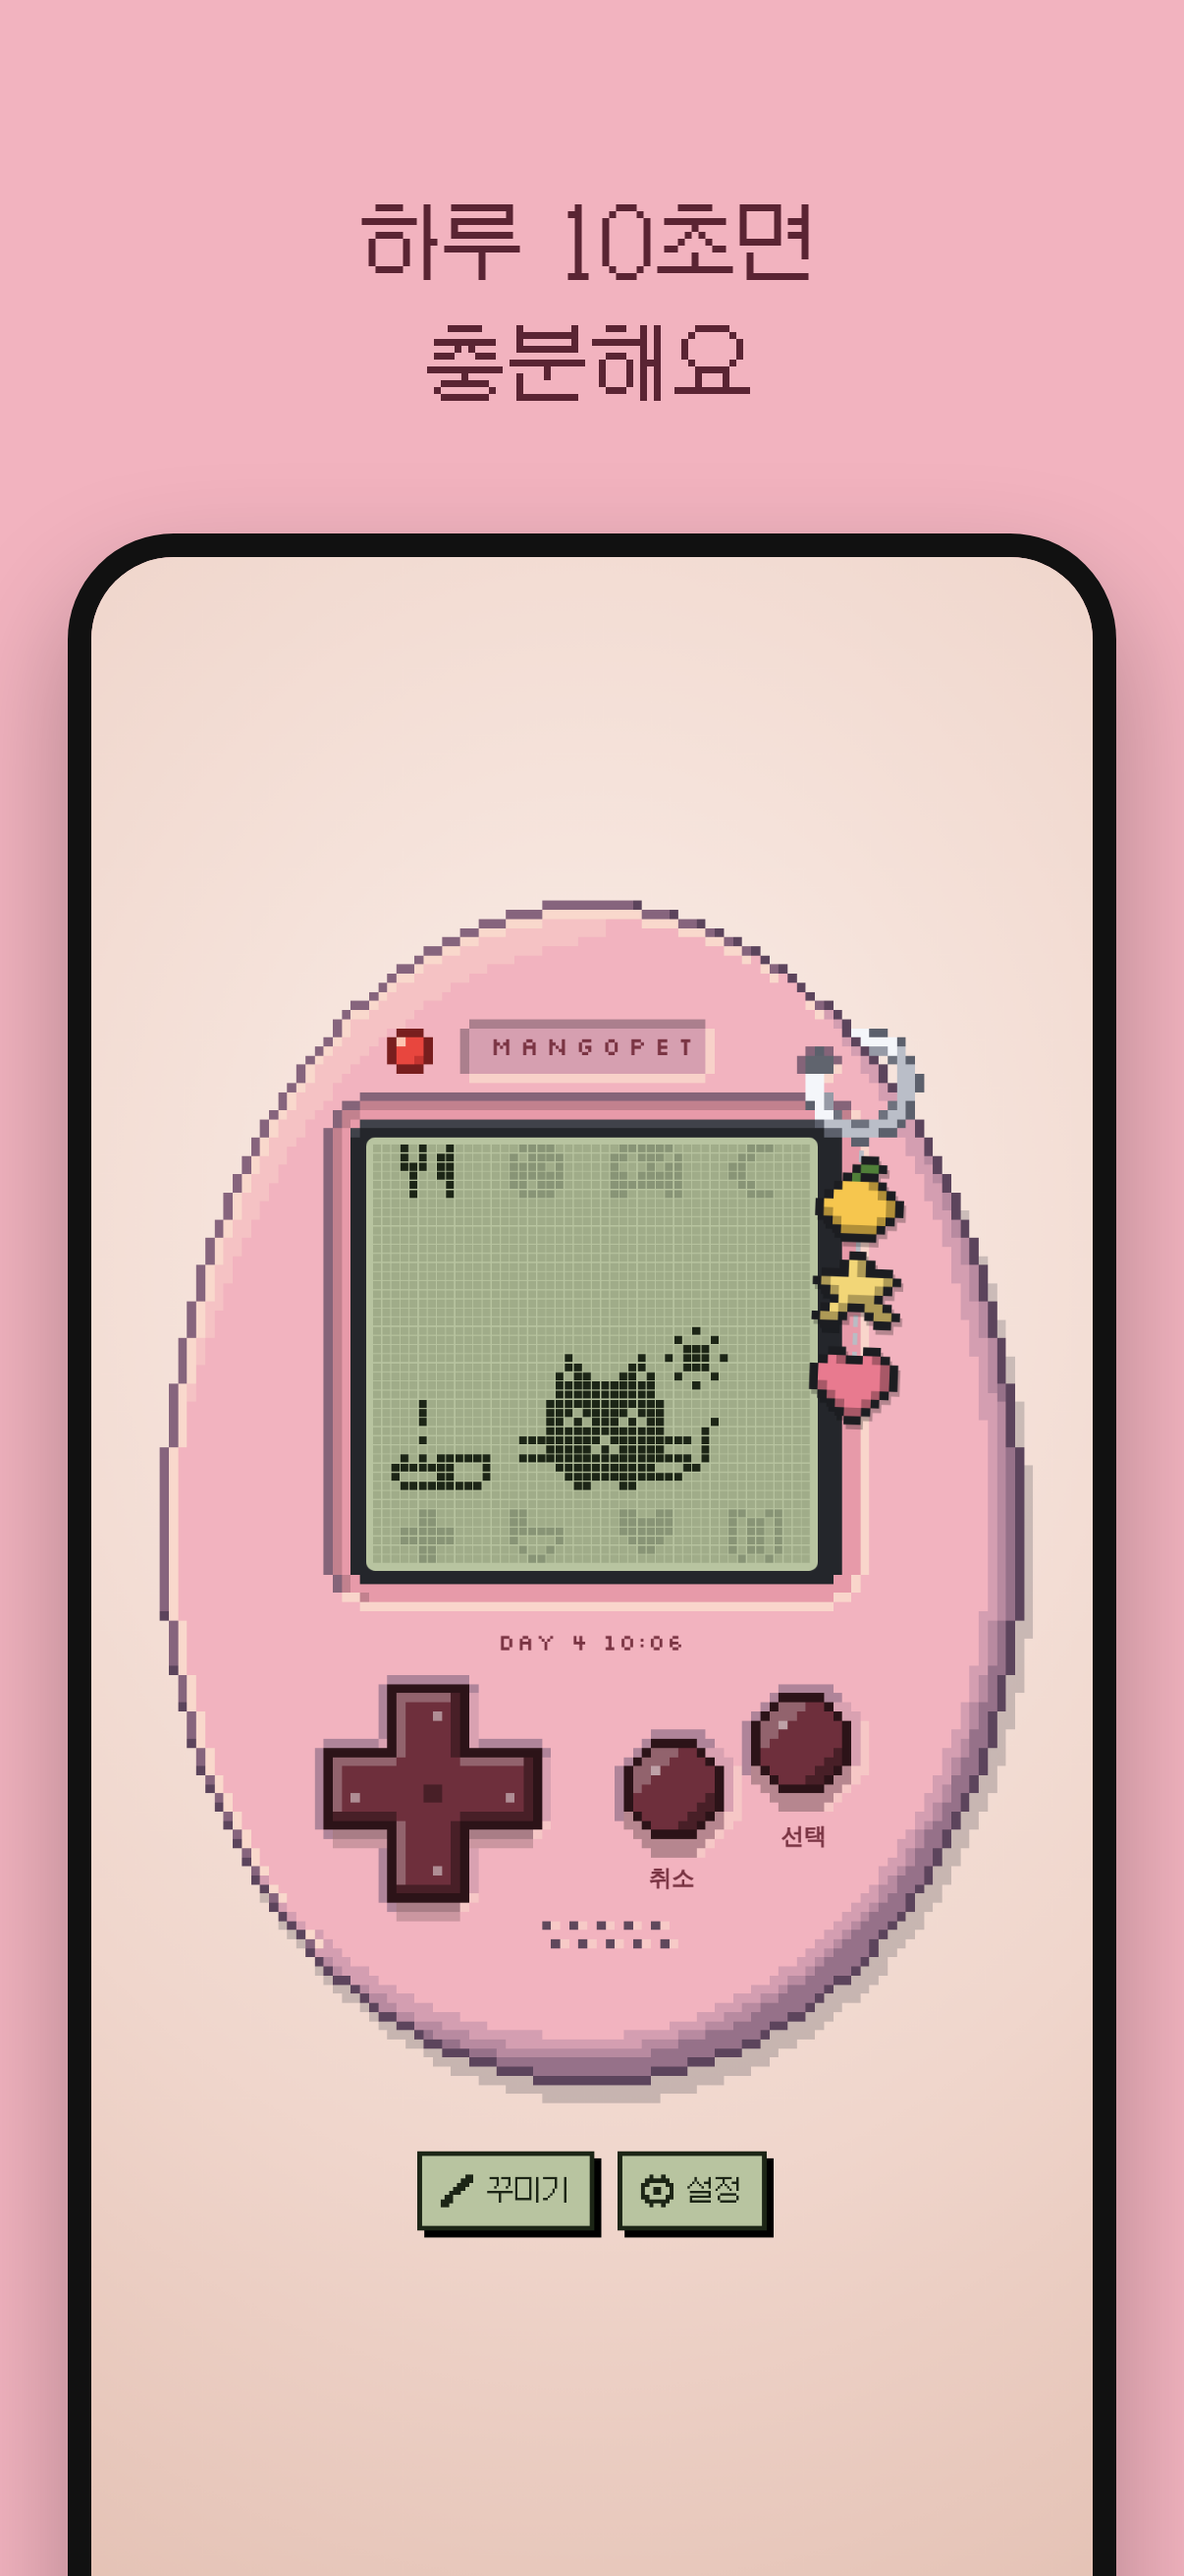
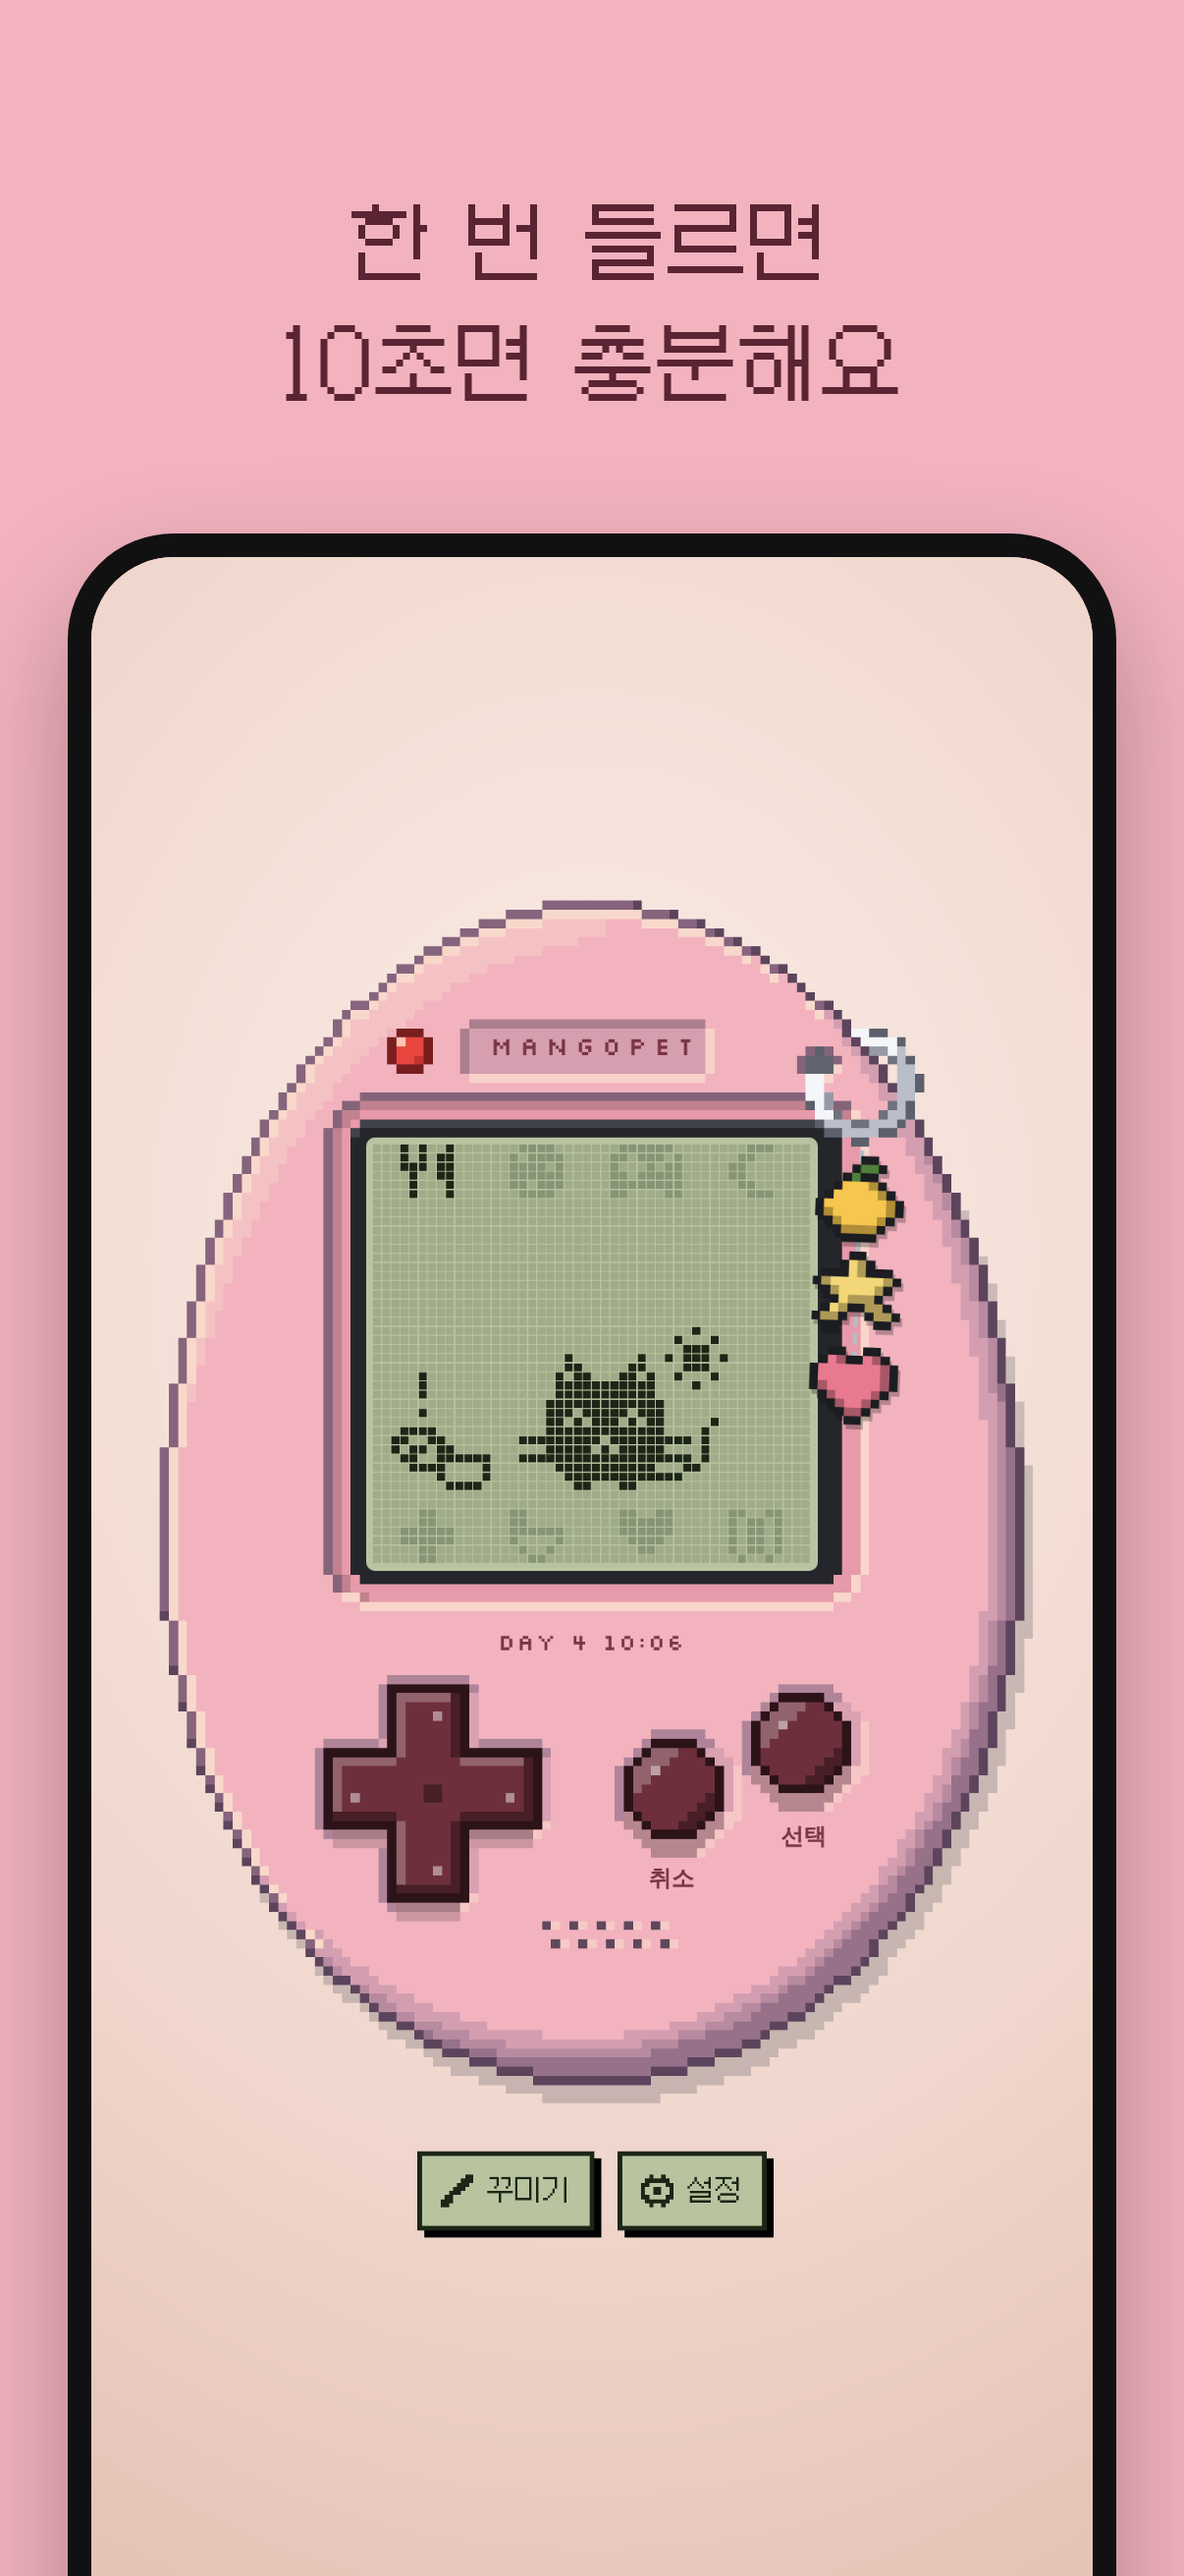
1.0.2 준비: 별점 묻기, 스토어 글·스크린샷 새로
- 첫 7일 졸업 때 폰 기본 별점 창을 한 번(@capacitor-community/in-app-review, askReview, g.reviewAsked)
- 버전 1.0.2 · 빌드 4 (iOS, Android versionName), 설정 › 정보 1.0.2
- 스토어 스크린샷: 2장 '한 번 들르면 10초면 충분해요', 6장을 알림 대신 깜짝 시간(무지개)
- assets/store/listing-1.0.2.md: 이름·부제·키워드(픽셀)·설명(다마고치·옛 숫자 뺌, 깜짝 시간·버릇)·새로운 기능

Claude-Session: https://claude.ai/code/session_016RoijJanbM29VgmJcCj5nJ

Changed region(s): [[0.2454, 0.0618, 0.767, 0.1545], [0.3068, 0.5252, 0.3988, 0.587]]

diff --git a/tools/store.js b/tools/store.js
@@ -1,5 +1,5 @@
 // Store screenshots: play six scenes in the phone build, then frame each under a headline.
-//   python3 tools/build.py && node tools/store.js   → assets/store/<size>/1-egg.png … 6-notif.png (6.3" 1206 × 2622 and 6.9" 1320 × 2868)
+//   python3 tools/build.py && node tools/store.js   → assets/store/<size>/1-egg.png … 6-surprise.png (6.3" 1206 × 2622 and 6.9" 1320 × 2868)
 // Scenes are set up through a hook injected into a temporary copy of docs/index.html.
 const {chromium}=require('playwright');const fs=require('fs'),path=require('path');
 const SIZES=[{dir:'6.3in-1206x2622',w:402,h:874},{dir:'6.9in-1320x2868',w:440,h:956}];
@@ -15,14 +15,15 @@ const GROW=`const D=window.__dp,g=D.g;g.speed=0;D.newPet('relaxed');D.advance(6)
 const SCENES=[
   {name:'1-egg',head:'알을 톡톡,\n내 펫을 깨워요',bg:'#f6c64e',ink:'#463414',save:{skin:'classic',bg:'beige',intro:'case'},wait:900,
     js:`const D=window.__dp;D.g.speed=0;document.querySelector('[data-intronext=life]').click();document.querySelector('[data-intronext=egg]').click();D.g.cracks=2;`},
-  {name:'2-meal',head:'하루 10초면\n충분해요',bg:'#f2b3bf',ink:'#5a2433',save:{skin:'berry',bg:'peach'},wait:500,js:GROW+`g.species='sun_cat';g.hunger=1;D.act('meal');`},
+  {name:'2-meal',head:'한 번 들르면\n10초면 충분해요',bg:'#f2b3bf',ink:'#5a2433',save:{skin:'berry',bg:'peach'},wait:500,js:GROW+`g.species='sun_cat';g.hunger=1;D.act('meal');`},
   {name:'3-dex',head:'24종 + 반짝이,\n도감을 채워요',bg:'#a6dccb',ink:'#1f4a3d',save:{skin:'mint',bg:'mint'},wait:700,
     js:GROW+`['sun_cat','moon_bear','chub_frog','wild_rabbit','sun_penguin','moon_chick','chub_cat','sun_bear','moon_rabbit','chub_penguin','sun_frog'].forEach((k,i)=>g.dex[k]={seen:true,grad:i%3?1:0,best:i%3?(i%2?2:1):0});D.openZoom('dex','chub_frog');`},
   {name:'4-deco',head:'키링 30종,\n나만의 기기로',bg:'#cfe0ea',ink:'#24384a',save:{skin:'banana',bg:'sky'},wait:700,js:GROW+`g.species='moon_bear';D.openZoom('charm');`},
   {name:'5-run',head:'미니게임 5종,\n기록에 도전!',bg:'#dcd5ea',ink:'#352a50',save:{skin:'classic',bg:'lilac'},wait:120,
     js:GROW+`g.species='wild_cat';const G=D.GAMES.run.start({id:'run',wins:0,until:0});G.dist=4*128;G.t0-=9000;G.next=1e15;G.obs.push({x:30,w:3,h:3,y:28});G.jumpAt=performance.now()-300;D.ui.game=G;`},
-  {name:'6-notif',head:'필요할 때만\n살짝 알려 줘요',bg:'#3a3d44',ink:'#f3eee6',save:{skin:'smoke',bg:'night'},wait:500,banner:true,
-    js:GROW+`g.species='chub_penguin';g.hunger=0;g.poops=1;D.banner('🍙 배고파 · 💩 똥 쌌어');`},
+  // the day's surprise: a rainbow arching over the pet (the scene's clock is set back so the arch is already up)
+  {name:'6-surprise',head:'하루 한 번,\n깜짝 시간!',bg:'#f6c64e',ink:'#463414',save:{skin:'mint',bg:'sky'},wait:150,
+    js:GROW+`g.species='sun_cat';g.found=null;D.ui.doing=null;D.ui.petX=18;D.ui.surprise={k:'rainbow',start:performance.now()-2900,given:false};`},
 ];
 (async()=>{const b=await chromium.launch();let bad=0;
  for(const S of SCENES){

diff --git a/src/prototype.html b/src/prototype.html
@@ -1099,7 +1099,7 @@ function sfx(k){buzz(k);if(!g.sound||!SFX[k])return;try{AC=AC||new (window.Audio
   let t=AC.currentTime+.01;for(const [f,ms] of SFX[k]){if(f){const o=AC.createOscillator(),v=AC.createGain();o.type='square';o.frequency.value=f;
     v.gain.setValueAtTime(.045,t);v.gain.setValueAtTime(.045,t+ms/1000-.01);v.gain.linearRampToValueAtTime(0,t+ms/1000);o.connect(v).connect(AC.destination);o.start(t);o.stop(t+ms/1000)}t+=ms/1000}}catch(e){}}
 function onEvent(e){
-  if(e.type==='graduate'){sfx('grad');const who=g.name||(SP[g.species]?SP[g.species].ko:'');talk(`🎓 ${who}${josa(who,'이','가')} 졸업했어요!`,`도감에 ${e.full?'★★':'★'}로 남았어요 · 앨범에도 한 장`,true)}if(e.type==='charm')sfx('charm');
+  if(e.type==='graduate'){sfx('grad');const who=g.name||(SP[g.species]?SP[g.species].ko:'');talk(`🎓 ${who}${josa(who,'이','가')} 졸업했어요!`,`도감에 ${e.full?'★★':'★'}로 남았어요 · 앨범에도 한 장`,true);if(e.full)askReview()}if(e.type==='charm')sfx('charm');
   // growing up has its own page below (and adult growth may be held in quiet hours), so its notice is skipped here.
   // Big news waits to be read; while catching up after the app was closed, passing needs are left to the screen itself
   // hatched while the app was closed: named now, and said once together (not the notice and the name separately)
@@ -3122,6 +3122,10 @@ const Haptics=hasPlugin('Haptics')&&window.capacitorHaptics?window.capacitorHapt
 const Prefs=hasPlugin('Preferences')&&window.capacitorPreferences?window.capacitorPreferences.Preferences:null;
 const AppPl=hasPlugin('App')&&window.capacitorApp?window.capacitorApp.App:null;
 // the web view lost its save but the app kept a copy: put it back and start again from it
+// the phone's own star-rating sheet, asked once: after the first full seven-day graduation, the happiest moment to ask.
+// The system decides whether it really shows (at most three times a year), so nothing here repeats it
+function askReview(){if(g.reviewAsked||!hasPlugin('InAppReview')||!window.capacitorInAppReview)return;g.reviewAsked=true;save();
+  setTimeout(()=>window.capacitorInAppReview.InAppReview.requestReview().catch(()=>{}),6000)}
 // coming back from the rescue page (설정 › 기록 › 예전 기록 찾기) with an old test build's save
 const RESCUE_URL='https://aiden-mklee.github.io/mangopet/rescue.html';
 if(/^#restore=/.test(location.hash)){const code=decodeURIComponent(location.hash.slice(9));history.replaceState(null,'',location.pathname+location.search);

diff --git a/app/ios/App/CapApp-SPM/Package.swift b/app/ios/App/CapApp-SPM/Package.swift
@@ -12,6 +12,7 @@ let package = Package(
     ],
     dependencies: [
         .package(url: "https://github.com/ionic-team/capacitor-swift-pm.git", exact: "8.5.3"),
+        .package(name: "CapacitorCommunityInAppReview", path: "../../../../node_modules/@capacitor-community/in-app-review"),
         .package(name: "CapacitorApp", path: "../../../../node_modules/@capacitor/app"),
         .package(name: "CapacitorFilesystem", path: "../../../../node_modules/@capacitor/filesystem"),
         .package(name: "CapacitorHaptics", path: "../../../../node_modules/@capacitor/haptics"),
@@ -26,6 +27,7 @@ let package = Package(
             dependencies: [
                 .product(name: "Capacitor", package: "capacitor-swift-pm"),
                 .product(name: "Cordova", package: "capacitor-swift-pm"),
+                .product(name: "CapacitorCommunityInAppReview", package: "CapacitorCommunityInAppReview"),
                 .product(name: "CapacitorApp", package: "CapacitorApp"),
                 .product(name: "CapacitorFilesystem", package: "CapacitorFilesystem"),
                 .product(name: "CapacitorHaptics", package: "CapacitorHaptics"),

diff --git a/app/www/in-app-review.js b/app/www/in-app-review.js
@@ -1,0 +1,24 @@
+var capacitorInAppReview = (function (exports, core) {
+    'use strict';
+
+    const InAppReview = core.registerPlugin('InAppReview', {
+        web: () => Promise.resolve().then(function () { return web; }).then((m) => new m.InAppReviewWeb()),
+    });
+
+    class InAppReviewWeb extends core.WebPlugin {
+        async requestReview() {
+            throw this.unimplemented('Not implemented on web.');
+        }
+    }
+
+    var web = /*#__PURE__*/Object.freeze({
+        __proto__: null,
+        InAppReviewWeb: InAppReviewWeb
+    });
+
+    exports.InAppReview = InAppReview;
+
+    return exports;
+
+})({}, capacitorExports);
+//# sourceMappingURL=plugin.js.map

diff --git a/docs/in-app-review.js b/docs/in-app-review.js
@@ -1,0 +1,24 @@
+var capacitorInAppReview = (function (exports, core) {
+    'use strict';
+
+    const InAppReview = core.registerPlugin('InAppReview', {
+        web: () => Promise.resolve().then(function () { return web; }).then((m) => new m.InAppReviewWeb()),
+    });
+
+    class InAppReviewWeb extends core.WebPlugin {
+        async requestReview() {
+            throw this.unimplemented('Not implemented on web.');
+        }
+    }
+
+    var web = /*#__PURE__*/Object.freeze({
+        __proto__: null,
+        InAppReviewWeb: InAppReviewWeb
+    });
+
+    exports.InAppReview = InAppReview;
+
+    return exports;
+
+})({}, capacitorExports);
+//# sourceMappingURL=plugin.js.map

diff --git a/docs/sw.js b/docs/sw.js
@@ -1,4 +1,4 @@
-const C='mangopet-17b71091';
+const C='mangopet-146900fc';
 self.addEventListener('install',e=>{e.waitUntil(caches.open(C).then(c=>c.addAll(['./','index.html','manifest.webmanifest','icon-192.png','icon-512.png'])));self.skipWaiting()});
 self.addEventListener('activate',e=>{e.waitUntil(caches.keys().then(ks=>Promise.all(ks.filter(k=>k!==C).map(k=>caches.delete(k)))));self.clients.claim()});
 // network first, cache as the offline fallback

diff --git a/tools/build.py b/tools/build.py
@@ -25,7 +25,7 @@ ENGINE = os.path.join(ROOT, 'src', 'engine.js')
 SLOT = '<script>/* @engine: tools/build.py inlines src/engine.js here */</script>'
 DOCS = os.path.join(ROOT, 'docs')
 FONT = os.path.join(ROOT, 'tools', 'fonts', 'Galmuri11.woff2')
-BETA = '1.0.1'  # the version shown in settings; keep in step with MARKETING_VERSION / versionName for store builds
+BETA = '1.0.2'  # the version shown in settings; keep in step with MARKETING_VERSION / versionName for store builds
 FONT_RE = re.compile(r"@font-face\{font-family:'Galmuri11'[^\n]*\n")
 
 
@@ -100,7 +100,8 @@ addEventListener('resize',fitWindow);setTimeout(fitWindow,50);setTimeout(fitWind
 PLUGINS = (('core/dist/capacitor.js', 'capacitor.js'), ('local-notifications/dist/plugin.js', 'local-notifications.js'),
            ('share/dist/plugin.js', 'share.js'), ('haptics/dist/plugin.js', 'haptics.js'),
            ('splash-screen/dist/plugin.js', 'splash-screen.js'), ('synapse/dist/synapse.js', 'synapse.js'),
-           ('filesystem/dist/plugin.js', 'filesystem.js'), ('app/dist/plugin.js', 'app.js'), ('preferences/dist/plugin.js', 'preferences.js'))
+           ('filesystem/dist/plugin.js', 'filesystem.js'), ('app/dist/plugin.js', 'app.js'), ('preferences/dist/plugin.js', 'preferences.js'),
+           ('../@capacitor-community/in-app-review/dist/plugin.js', 'in-app-review.js'))
 
 
 def native(s):

diff --git a/DESIGN.md b/DESIGN.md
@@ -84,6 +84,7 @@
 - 상태 화면(하트 아이콘)은 ◀ ▶로, 또는 선택을 다시 눌러 다음 장으로 넘기고 끝에서 처음으로 돌아간다. 처음 쓰는 사람이 넘길 수 있는지 몰라서, 액정 양옆 가운데에 작은 ◀ ▶(3 × 5칸)를 늘 그려 둔다(깜빡이지 않음).
 - 달리기 게임의 고양이(`buildRunner`)도 큰 고양이처럼 윗머리가 평평한 9칸 몸, 뾰족한 귀, 한 칸 수염, 몸 옆 꼬리. 부딪힘은 몸만 본다(왼쪽 수염과 꼬리 3칸은 빼고).
 - **오늘의 깜짝 시간** 장면(`surpriseDraw`, 6초, 4.6초에 주운 것): 유성우는 별똥별 다섯 개가 오른쪽 위에서 바닥까지 떨어지며 닿을 때 톡 반짝인다. 무지개는 가는 줄 세 개(실선·점선·실선, 한 칸씩 띄움)가 펫 머리 위로 크게 걸리고 양 끝은 화면 밖 뭉게구름(둘레 한 칸 비움)으로. 반딧불은 액정을 뒤집어 어둡게 하고 반딧불 여섯 마리가 점→십자→점으로 은은하게 커졌다 작아진다. 비눗방울은 흔들흔들 올라가다 톡 터진다. 꽃잎 바람은 끝이 갈라진 벚꽃잎(한 번에 4분의 1씩 돎) 일곱 장과 꽃 한 송이가 높이·흔들림·나타나는 때가 제각각으로 날린다. 펫은 하늘을 볼 때 폴짝. 굵은 무지개, 납작한 구름, 점 같은 꽃잎, 돌풍에 빙글 도는 정신없는 꽃잎은 시안에서 뺐다. 계절 장면: 첫눈은 눈송이 13개(큰 육각 두 가지가 섞여 각자 한 모양으로, 작은 X, 점)가 출발·위치·속도·흔들림을 제각각 내려오며 바닥에 얇게 쌓인다. 낙엽은 옆으로 누운 작은 단풍잎(6칸)이 하늘하늘 좌우로 흔들리며 미끄러지는 쪽으로 기울고 끝에서 수평으로 머문다(정면 단풍, 큰 단풍, 좁아졌다 넓어지는 단풍, 두 모양을 번갈아 도는 눈송이는 뺐다). 불꽃놀이는 액정을 뒤집어 밤하늘로, 불꽃이 올라가 둥글게 터진다. 반짝이 주운 것은 둘레 세 곳에서 별이 0.6초 박자로 번갈아 반짝인다(재촉하는 깜빡임이 아님).
+- **별점 묻기**(앱에서만, `askReview`): 첫 7일 졸업(★★) 6초 뒤 폰 기본 별점 창을 한 번만 띄운다(`g.reviewAsked`). 실제로 보일지는 시스템이 정한다(1년에 세 번까지). 끝까지 키운 순간이 제일 기분 좋을 때라서.
 - **설명서**(설정 › 설명서, `GUIDE`·`guideHtml`, 넘긴 장 `ui.guide`): 옛날 게임기 책자처럼 한 장씩 ◀ ▶로 넘긴다(11장: 버튼과 아이콘, 고르고 실행하기, 말풍선, 하루 돌보기, 아플 때, 자라기(단계·체질은 청소년 때 상태에서), 어떤 아이가 될까(계열), 졸업과 다음 알, 놀이와 모으기, 꾸미기, 알림과 생활 시간). 액정 자리라 한 장이 스크롤 없이 들어가게 두 문단 이내, 숫자는 안 쓴다. 맨 위 한 줄에 ◀ 설정 · 쪽수 · ◀ ▶.
 - 게임 속 작은 펫: 성체는 달리기용 그림(`buildRunner`)을 따로 쓰고, 나머지는 `runSprite`로 줄인다. 4칸 이하로 줄일 때(청소년 15→13, 따라 하기·낚시의 일부 성체)는 짧은 무늬(눈·입·귀)를 덜 건드리는 열을 좌우 짝으로 빼서(`dropCols`) 양쪽이 온전하다. 예전처럼 다시 그려 줄이면 오른쪽 귀가 잘리고 오른쪽 눈이 뭉개졌다.
 - 액정 아래 DAY 줄에 이름을 넣는 시안(한 줄·두 줄·짧게)을 봤지만 넣지 않기로 했다. 이름은 알림·말하는 창·설정에서만.
